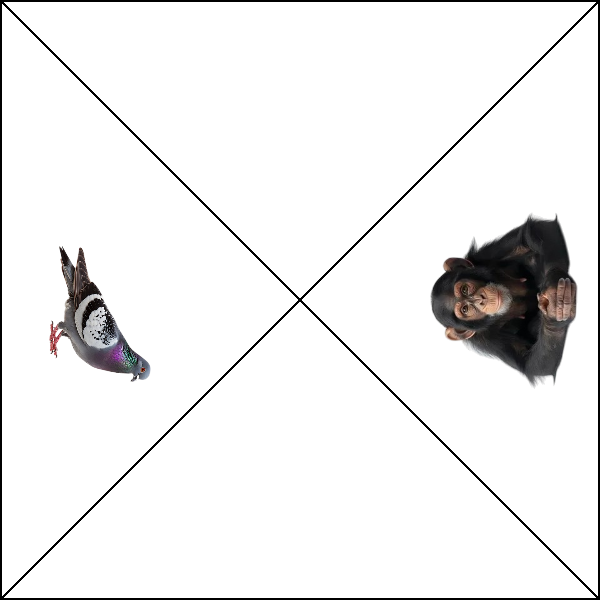
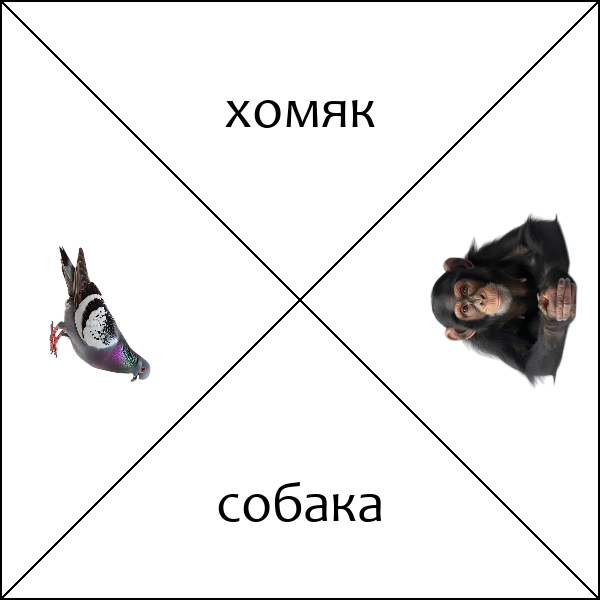
полностью сделана генерация уровня

Changed region(s): [[0.36, 0.78, 0.66, 0.87], [0.36, 0.15, 0.63, 0.21]]

diff --git a/generate_level.py b/generate_level.py
@@ -64,6 +64,7 @@ def generate(img_width, img_height, image_direct, format, field_direct, final_di
     field_text = [["", "", "", ""], ["", "", "", ""], ["", "", "", ""], ["", "", "", ""]]
 
     count_text = 0
+    font = ImageFont.truetype("static/fonts/candara.ttf", 56)
     for i in range(4):
         for j in range(2):
             x, y = pairs[i][j]
@@ -83,8 +84,18 @@ def generate(img_width, img_height, image_direct, format, field_direct, final_di
         background.paste(rotated2, coords_for_image[indexes_images[i][1]], rotated2)
         counter_img += 1
 
+        y_coord = 100
+        text1 = field_text[i][indexes_text[i][0]]
+        background = background.rotate(rotations[indexes_text[i][0]])
+        add_centered_text(background, text1, background.width // 2, y_coord, font)
+        background = background.rotate(-rotations[indexes_text[i][0]])
 
-
+        text2 = field_text[i][indexes_text[i][1]]
+        background = background.rotate(rotations[indexes_text[i][1]])
+        if indexes_text[i][1] == 3:
+            y_coord = 500
+        add_centered_text(background, text2, background.width // 2, y_coord, font)
+        background = background.rotate(-rotations[indexes_text[i][1]])
 
         background.save(f'{final_direct}/{i + 1}{format}')
 
